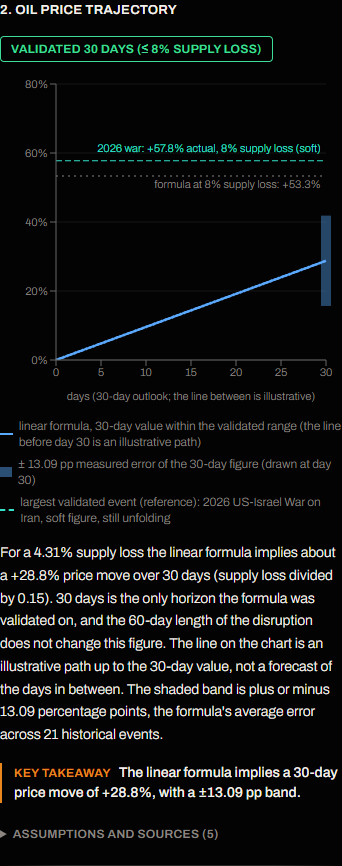
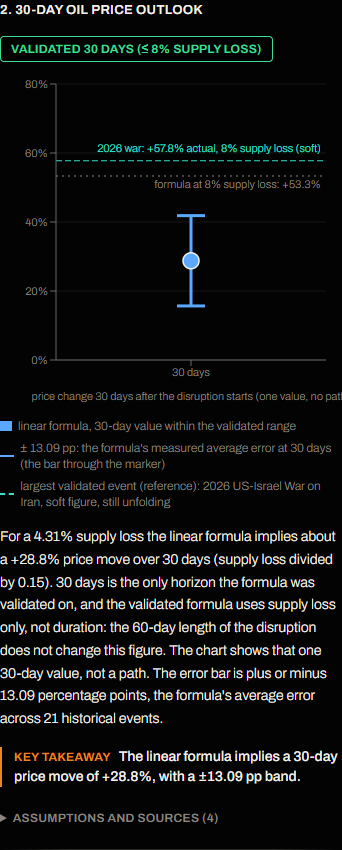
M14 follow-up 2: browser checks (60), screenshots, LIMITATIONS and DEMO question on duration, DECISIONS D34, README and before/after doc

diff --git a/LIMITATIONS_AND_FUTURE_WORK.md b/LIMITATIONS_AND_FUTURE_WORK.md
@@ -32,7 +32,9 @@ Final state at **v1.0** (30 Oct 2026). Everything here was observed or measured 
 - **`conflict_intensity` is hand-scored and does not enter the price formula** (only supply loss does; intensity is used for the high-intensity caveat and the pulsing ring), and several `supply_loss_pct` values in `events.csv` are informed estimates. The largest one, the 2026 Iran war (8%), is marked "ROUGH ESTIMATE, still unfolding" in the file, so the top of the validated range is itself soft.
 - **The elasticity (-0.15) is a borrowed textbook value**, not estimated from this project's data.
 - **The formula is linear and was validated only up to 8% supply loss.** A full Hormuz blockade is a 15.5% supply loss and the formula implies about +103%. The Results page marks that part of the curve as beyond the validated range, hides the plus or minus 13.09 pp band ("not validated at this magnitude"), and shows the largest validated event for comparison (+57.8% at 8%). No cap or nonlinear model is applied, by decision.
-- **One horizon only (M14).** The price outlook is the 30-day move, `supply loss / 0.15`, because that is the only horizon Phase 1 tested (price 5 days before the event against 30 days after, 21 events; the 90-day formula error was worse, 18.01 pp). The days between 0 and 30 were not measured, so the line on the Results page is an illustrative straight line. The earlier hold-then-decay path over 180 days was an unvalidated assumption and has been removed; `docs/outlook_validation.md` and `docs/m14_before_after.md` have the record. The barrels-displaced chart (days 0 to 180), the 1, 3 and 5 year EV horizons and the economy section's yearly scaling are arithmetic or sourced rules of thumb, not price estimates, and were left as they were.
+- **One horizon only (M14).** The price outlook is the 30-day move, `supply loss / 0.15`, because that is the only horizon Phase 1 tested (price 5 days before the event against 30 days after, 21 events; the 90-day formula error was worse, 18.01 pp). The days between 0 and 30 were not measured, so the Results page draws **one marker at day 30 with its error bar and no path**. The earlier hold-then-decay path over 180 days, and the straight line that replaced it for a day, were unvalidated and have been removed; `docs/outlook_validation.md` and `docs/m14_before_after.md` have the record.
+- **The price result does not depend on how long the disruption lasts.** The validated formula uses supply loss only, not duration: a 10-day and a 60-day disruption with the same supply loss both give +28.76%. That is a limit of the formula (the 21 events were not split by duration), and the Results page says so next to the number. The duration still drives the barrels displaced, the one-time totals and the economy scaling.
+- **Arithmetic and sourced scalings that are not price estimates:** the barrels-displaced chart now ends with the disruption length the user entered; the 1, 3 and 5 year EV horizons are labelled "if the displacement lasted this long (arithmetic, not a forecast)"; the economy section scales the 30-day move, assumed sustained for the days entered, by the IMF rule of thumb and is labelled "sourced estimate" with its source.
 
 ## 3. Route data
 

diff --git a/docs/m14_before_after.md b/docs/m14_before_after.md
@@ -33,10 +33,14 @@ What was **not** the plain formula was the path around it: `price_trajectory` he
 
 The Results page, the WTI card and the summaries use the same outside-range rule as before (above 8% supply loss) and the same ± 13.09 pp.
 
+## Follow-up (same day): one marker, no path
+
+The straight line of the table above was itself a path the formula does not give, so it was replaced by a single day-30 marker with its error bar (`trajectory` is now a one-element list: day 30). The barrels series ends with the disruption length entered (Suez 60-day: days 0 to 60; before M14: always 180 days). See DECISIONS D34.
+
 ## API fields
 
 - **Removed:** `sections.price.chart.half_life_days`, `sections.price.numbers.half_life_days`; trajectory days 31 to 180.
-- **Kept (old names, same meaning):** `kpis.price_impact_pct`, `kpis.price_band_pp`, `kpis.outside_validated_range`, `kpis.validated_note`, `sections.price.numbers.peak_pct` (now equal to the 30-day move), `sections.price.chart.trajectory[]` with `day`, `pct`, `low`, `high`, `beyond_validated` (now 31 points; `low` and `high` are filled on day 30 only), `validated_price_ceiling_pct`, `validated_reference`. No backward-compatibility snapshot test covers the report endpoint, so nothing was kept only to satisfy a test; the old names stay because the Results page and the e2e scripts read them.
+- **Kept (old names, same meaning):** `kpis.price_impact_pct`, `kpis.price_band_pp`, `kpis.outside_validated_range`, `kpis.validated_note`, `sections.price.numbers.peak_pct` (now equal to the 30-day move), `sections.price.chart.trajectory[]` with `day`, `pct`, `low`, `high`, `beyond_validated` (now ONE point, day 30, carrying `low` and `high`), `validated_price_ceiling_pct`, `validated_reference`. No backward-compatibility snapshot test covers the report endpoint, so nothing was kept only to satisfy a test; the old names stay because the Results page and the e2e scripts read them.
 - **Added (additive):** `kpis.price_horizon_days` (30), `kpis.validation_badge`, `sections.price.numbers.horizon_days`, `numbers.move_30d_pct`, `numbers.validation_badge`, `chart.horizon_days`.
 - **Unchanged on purpose:** `POST /simulate` returns the same `predicted_price_change_pct` and the same `explanation` text (its snapshot tests pin the wording, and the text states no horizon); the dashboard label now says "over 30 days".
-- **Not price estimates, kept as they were:** the barrels-displaced chart and `cumulative_bbl` (arithmetic over the disruption's duration, days 0 to 180), the EV horizons of 1, 3 and 5 years, and the economy section's scaling of the IMF coefficients to a year. See the M14 report for the open question about the barrels chart.
+- **Not price estimates:** the barrels-displaced series and `cumulative_bbl` now end with the disruption length entered (D34); the EV horizons of 1, 3 and 5 years are labelled "if the displacement lasted this long (arithmetic, not a forecast)"; the economy section's IMF scaling is labelled "sourced estimate".

diff --git a/README.md b/README.md
@@ -198,7 +198,7 @@ All of it is in `backend/services/calc_engine.py` as pure functions, driven by `
 | 4 | Barrels displaced per day | `flow x (1 - delivery factor)` (blockade: `max(0, flow x blocked share - bypass)`) | 4,455,696 bpd |
 | 5 | Supply loss | `displaced / 103.3 Mb/d` | 4.313% of world supply |
 | 6 | Price impact (the validated formula) | `supply loss / 0.15` | **+28.8%** (±13.09 pp) |
-| 7 | Price path (M14: 30 days only) | an illustrative straight line from 0 to the step-6 value at day 30; no decay, and the length of the disruption does not change it | 31 points, day 30 = +28.8% |
+| 7 | The 30-day outlook (M14: one value) | the step-6 value at day 30, drawn as one marker with its error bar; no path, no decay, and the length of the disruption does not change it | 1 point, day 30 = +28.8% |
 | 8 | EVs needed to offset the lost fuel | `displaced x 19.5 gal gasoline/bbl x 365 / 500 gal per vehicle-year x EV share` | 63,426,835 EVs |
 | 9 | Lithium per EV (sourced case) | `0.10 kg Li/kWh x 60 kWh x 5.323 (LCE per Li) / 1000` | 0.0319 t LCE (the project's own 0.008 is shown for comparison) |
 | 10 | Lithium required | `EVs x t LCE per EV` | 2,025,726 t LCE (2.03 to 3.04 Mt across 60/70/90 kWh packs) |
@@ -215,7 +215,7 @@ Everything below is either borrowed, chosen, or estimated, and is flagged in the
 1. **Elasticity Ed = -0.15** is a borrowed textbook short-run value, not estimated from this project's data.
 2. **The ±13.09 pp band** is the leave-one-out MAE of 21 events and is applied as a constant width; it is not a statistical confidence interval.
 3. **The formula is linear** and validated only up to 8% supply loss (see Methodology).
-4. **Price path shape** is only an illustration: since M14 the app shows one price horizon, 30 days, and the line drawn from 0 to the 30-day value is a straight line, not a model (the earlier hold-then-decay path over 180 days was removed because nothing validated it; DECISIONS D33).
+4. **There is no price path.** Since M14 the app shows one price horizon, 30 days, as a single value with its error bar (the earlier hold-then-decay path over 180 days, and a straight line that briefly replaced it, were removed because nothing validated them; DECISIONS D33, D34).
 5. **Tanker fleet is fixed** for a detour (worst case): delivery scales by `T/(T+detour)`. `fleet=0` on the Results page lets the fleet expand (zero displaced).
 6. **Voyage days** are a planned sea distance from ShipFinder route planning (5 Port-to-Port calls, retrieved 2026-11-02, 2 Point-to-Point cross-checks within 0.6%) divided by 14 knots. The distance is sourced; the 14-knot speed is the project's assumption. The default Suez detour (14 days) is the Cape plan minus the Suez plan, 11,239.4 and 6,540.2 nm. The globe lines are still illustrative.
 7. **Baseline flows** are the last normal year (2023 for Suez, Bab el-Mandeb and the Cape, 2024 elsewhere). Real conditions in 2026 differ (Hormuz effectively closed); results are a what-if from a normal baseline.

diff --git a/docs/DECISIONS.md b/docs/DECISIONS.md
@@ -37,6 +37,7 @@
 | D31 | owner decision 2026-11-04 | **Anthropic API in hosted mode: never called.** Hosted mode forces the rule-based news classifier (`news/classify.py`), M16 | cost and abuse control on a public site |
 | D32 | owner decision 2026-11-04 | **Hosted mode also needs** (M16): NewsAPI off (GDELT only, with citation), a scheduled server refresh of every source within its limits with every visitor served from cache, dated fallbacks for outages, a plan for the AIS key expiry (snapshots only) and for cold starts, a 390 px phone layout with a lighter vessel count and simpler layers, a footer (disclaimer "Educational project. Figures are model estimates, not forecasts or financial advice.", source attributions, GitHub link), and no visitor tracking unless a privacy note is added | public site must run unattended |
 | D33 | owner decision 2026-11-04 (M14) | **One price horizon: 30 days.** The headline was already exactly `supply loss / 0.15` (no decay in the headline). The path around it (held at the peak, then exponential decay with an assumed half-life, drawn over 180 days) is **removed**: it drew days 31 to 180, which nothing validated, and for a disruption shorter than 30 days its day-30 value disagreed with the headline (10-day Suez detour: headline +28.8%, chart +4.0% at day 30). The Results chart now runs days 0 to 30 as an illustrative straight line ending on the formula value, with the measured ± 13.09 pp drawn at day 30 only, and carries the badge `VALIDATED 30 DAYS (≤ 8% supply loss)` or `OUTSIDE VALIDATED RANGE` (same text on the WTI card). The length of the disruption no longer changes the price figure. The barrels chart (0 to 180 days), EV horizons and the economy scaling are not price estimates and stay. Evidence: `docs/outlook_validation.md`, `docs/m14_before_after.md` | the validated claim is the 30-day move and nothing else |
+| D34 | owner decision 2026-11-04 (M14 follow-ups) | **The price result is a single day-30 marker with its error bar** (or `OUTSIDE VALIDATED RANGE` and no bar): the formula gives one 30-day value, not a path, so nothing is drawn or returned for days before 30 (the API's `trajectory` is a one-element list, day 30). The straight line of D33 is removed. **Barrels-displaced chart and series end with the disruption length the user entered** (daily and cumulative), no longer 180 days. **EV horizons of 1, 3 and 5 years stay**, labelled "if the displacement lasted this long (arithmetic, not a forecast)". **IMF scaling stays**, labelled "sourced estimate" with its source, and the economy text now says the 30-day move is assumed sustained for the days entered. **Duration note** next to the price: "the validated formula uses supply loss only, not duration"; also in LIMITATIONS and the DEMO questions. The section title is now "30-day oil price outlook" | the formula validates one number at one horizon |
 
 ## Resolved
 

diff --git a/DEMO_SCRIPT.md b/DEMO_SCRIPT.md
@@ -72,6 +72,8 @@
 
 ## Questions you may be asked, and honest answers
 
+**"Does the price change if the disruption lasts longer?"** Not in this model, and I say so on the page. The validated formula uses **supply loss only, not duration**: it was tested on the price 30 days after each event, against that event's supply loss. A 10-day and a 60-day Suez detour with the same supply loss both give **+28.76%**. Duration does change the barrels lost, the totals and the economy scaling, but not the price figure. That is a limitation of the evidence (21 events, not split by duration), not a claim that duration is irrelevant in the real world.
+
 **"Twenty-one events is a tiny sample. Why believe the formula?"** I do not claim it is accurate; I claim it is **transparent and not beaten**. I tested a trained model with leave-one-out validation against it: formula error 13.09 pp, model 13.80 pp. With 21 events and four features there is not enough signal to justify replacing theory. The ±13.09 pp band on the chart is that error, so the chart shows how wrong it has been, not a guess.
 
 **"Where does -0.15 come from?"** It is a **borrowed textbook short-run demand elasticity**, not estimated from my data. It is the biggest single assumption in the price number: if the true value were -0.10 the price effects would be 1.5 times larger, and at -0.30 half as large.
